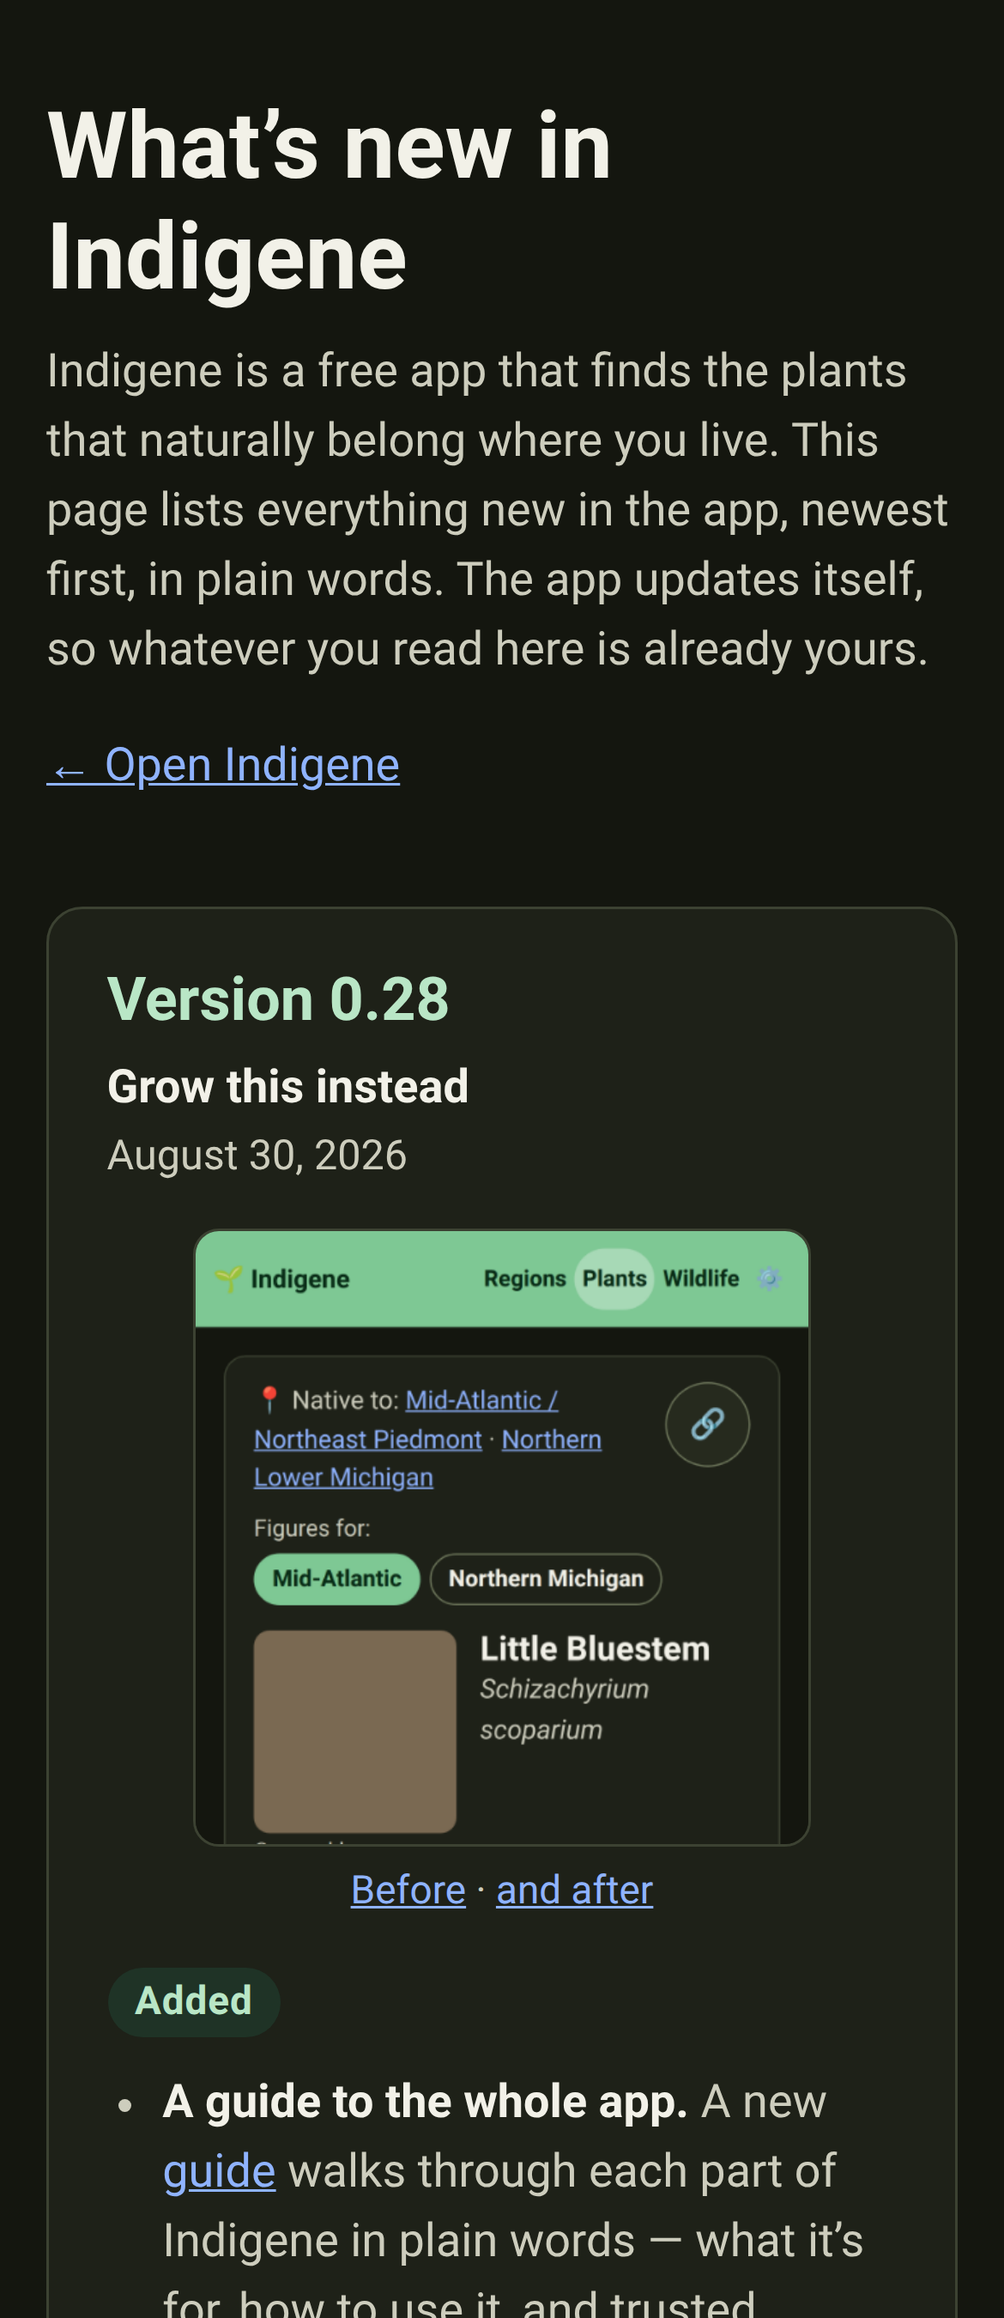
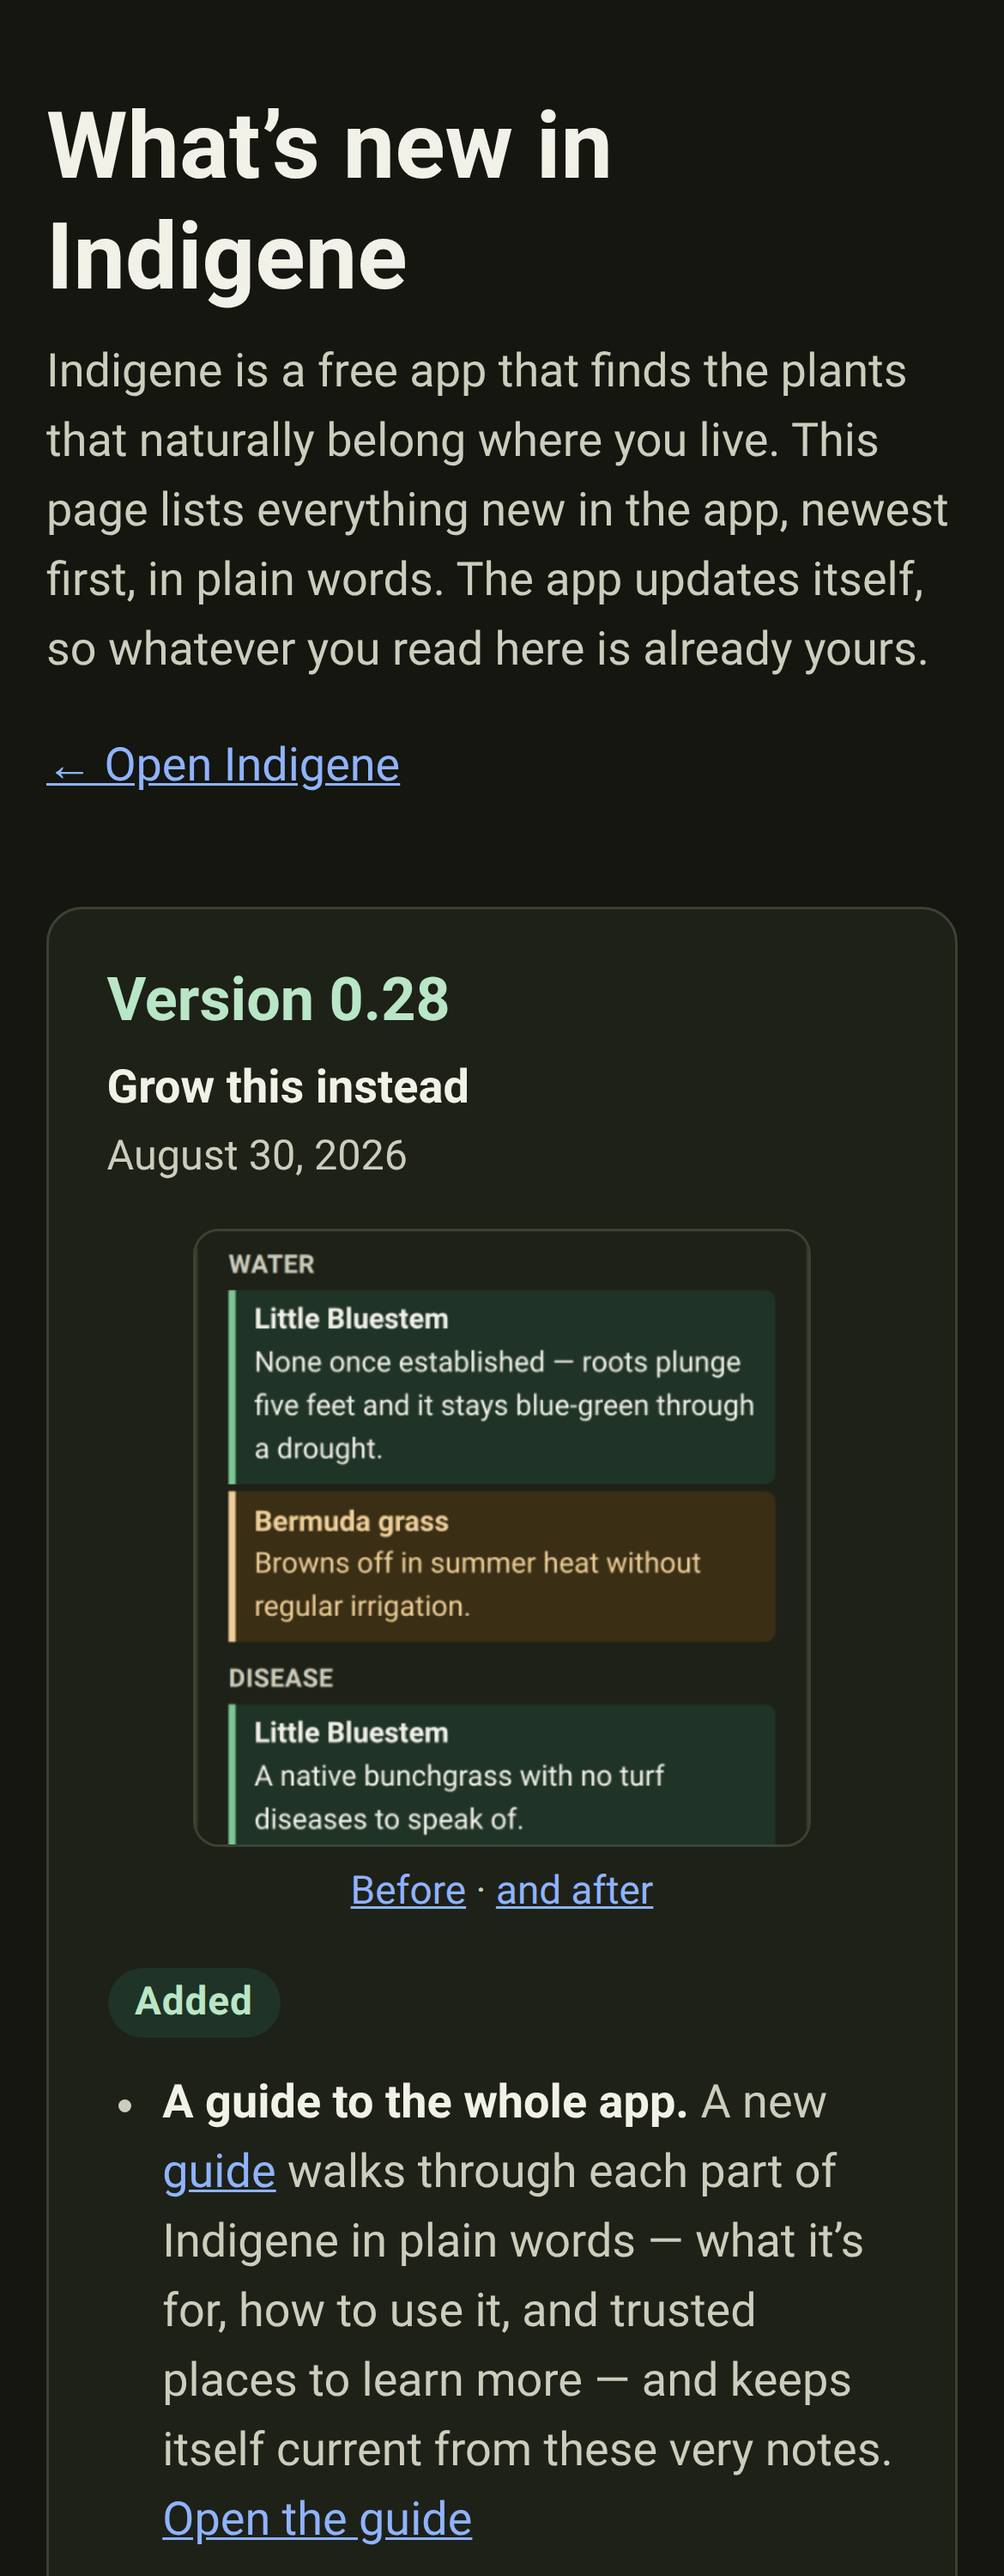
Make the 0.28 thumbnail show the swap, not the page header
make-thumb takes the top 480px of a screenshot, which on the plant page was
just the nav bar and an empty photo box — nothing about the feature. Point
the release thumbnail at the water/disease comparison instead (green native
vs amber ornamental), and link it to the full Bermuda-grass swap page, with
the plant-page before/after still the reel's second pair (as 0.26 does).

Claude-Session: https://claude.ai/code/session_01XBUJxfdyXunjQddUe1EDR7

diff --git a/CHANGELOG.md b/CHANGELOG.md
@@ -35,7 +35,7 @@ subtitle on the What's new page.
 
 **Grow this instead**
 
-[![Little Bluestem's page now says what to grow it in place of — Bermuda grass — right beside the look-alike it gets confused with](docs/screenshots/pr-143/thumb.png)](docs/screenshots/pr-143/plant-after-dark.png)
+[![Little bluestem against Bermuda grass, side by side: on water the native needs none once established while the lawn grass browns off without irrigation, and it carries no turf disease](docs/screenshots/pr-143/thumb.png)](docs/screenshots/pr-143/bermuda-swap-dark.png)
 [Before](docs/screenshots/pr-143/plant-before-dark.png) · [and after](docs/screenshots/pr-143/plant-after-dark.png)
 
 ### Added
